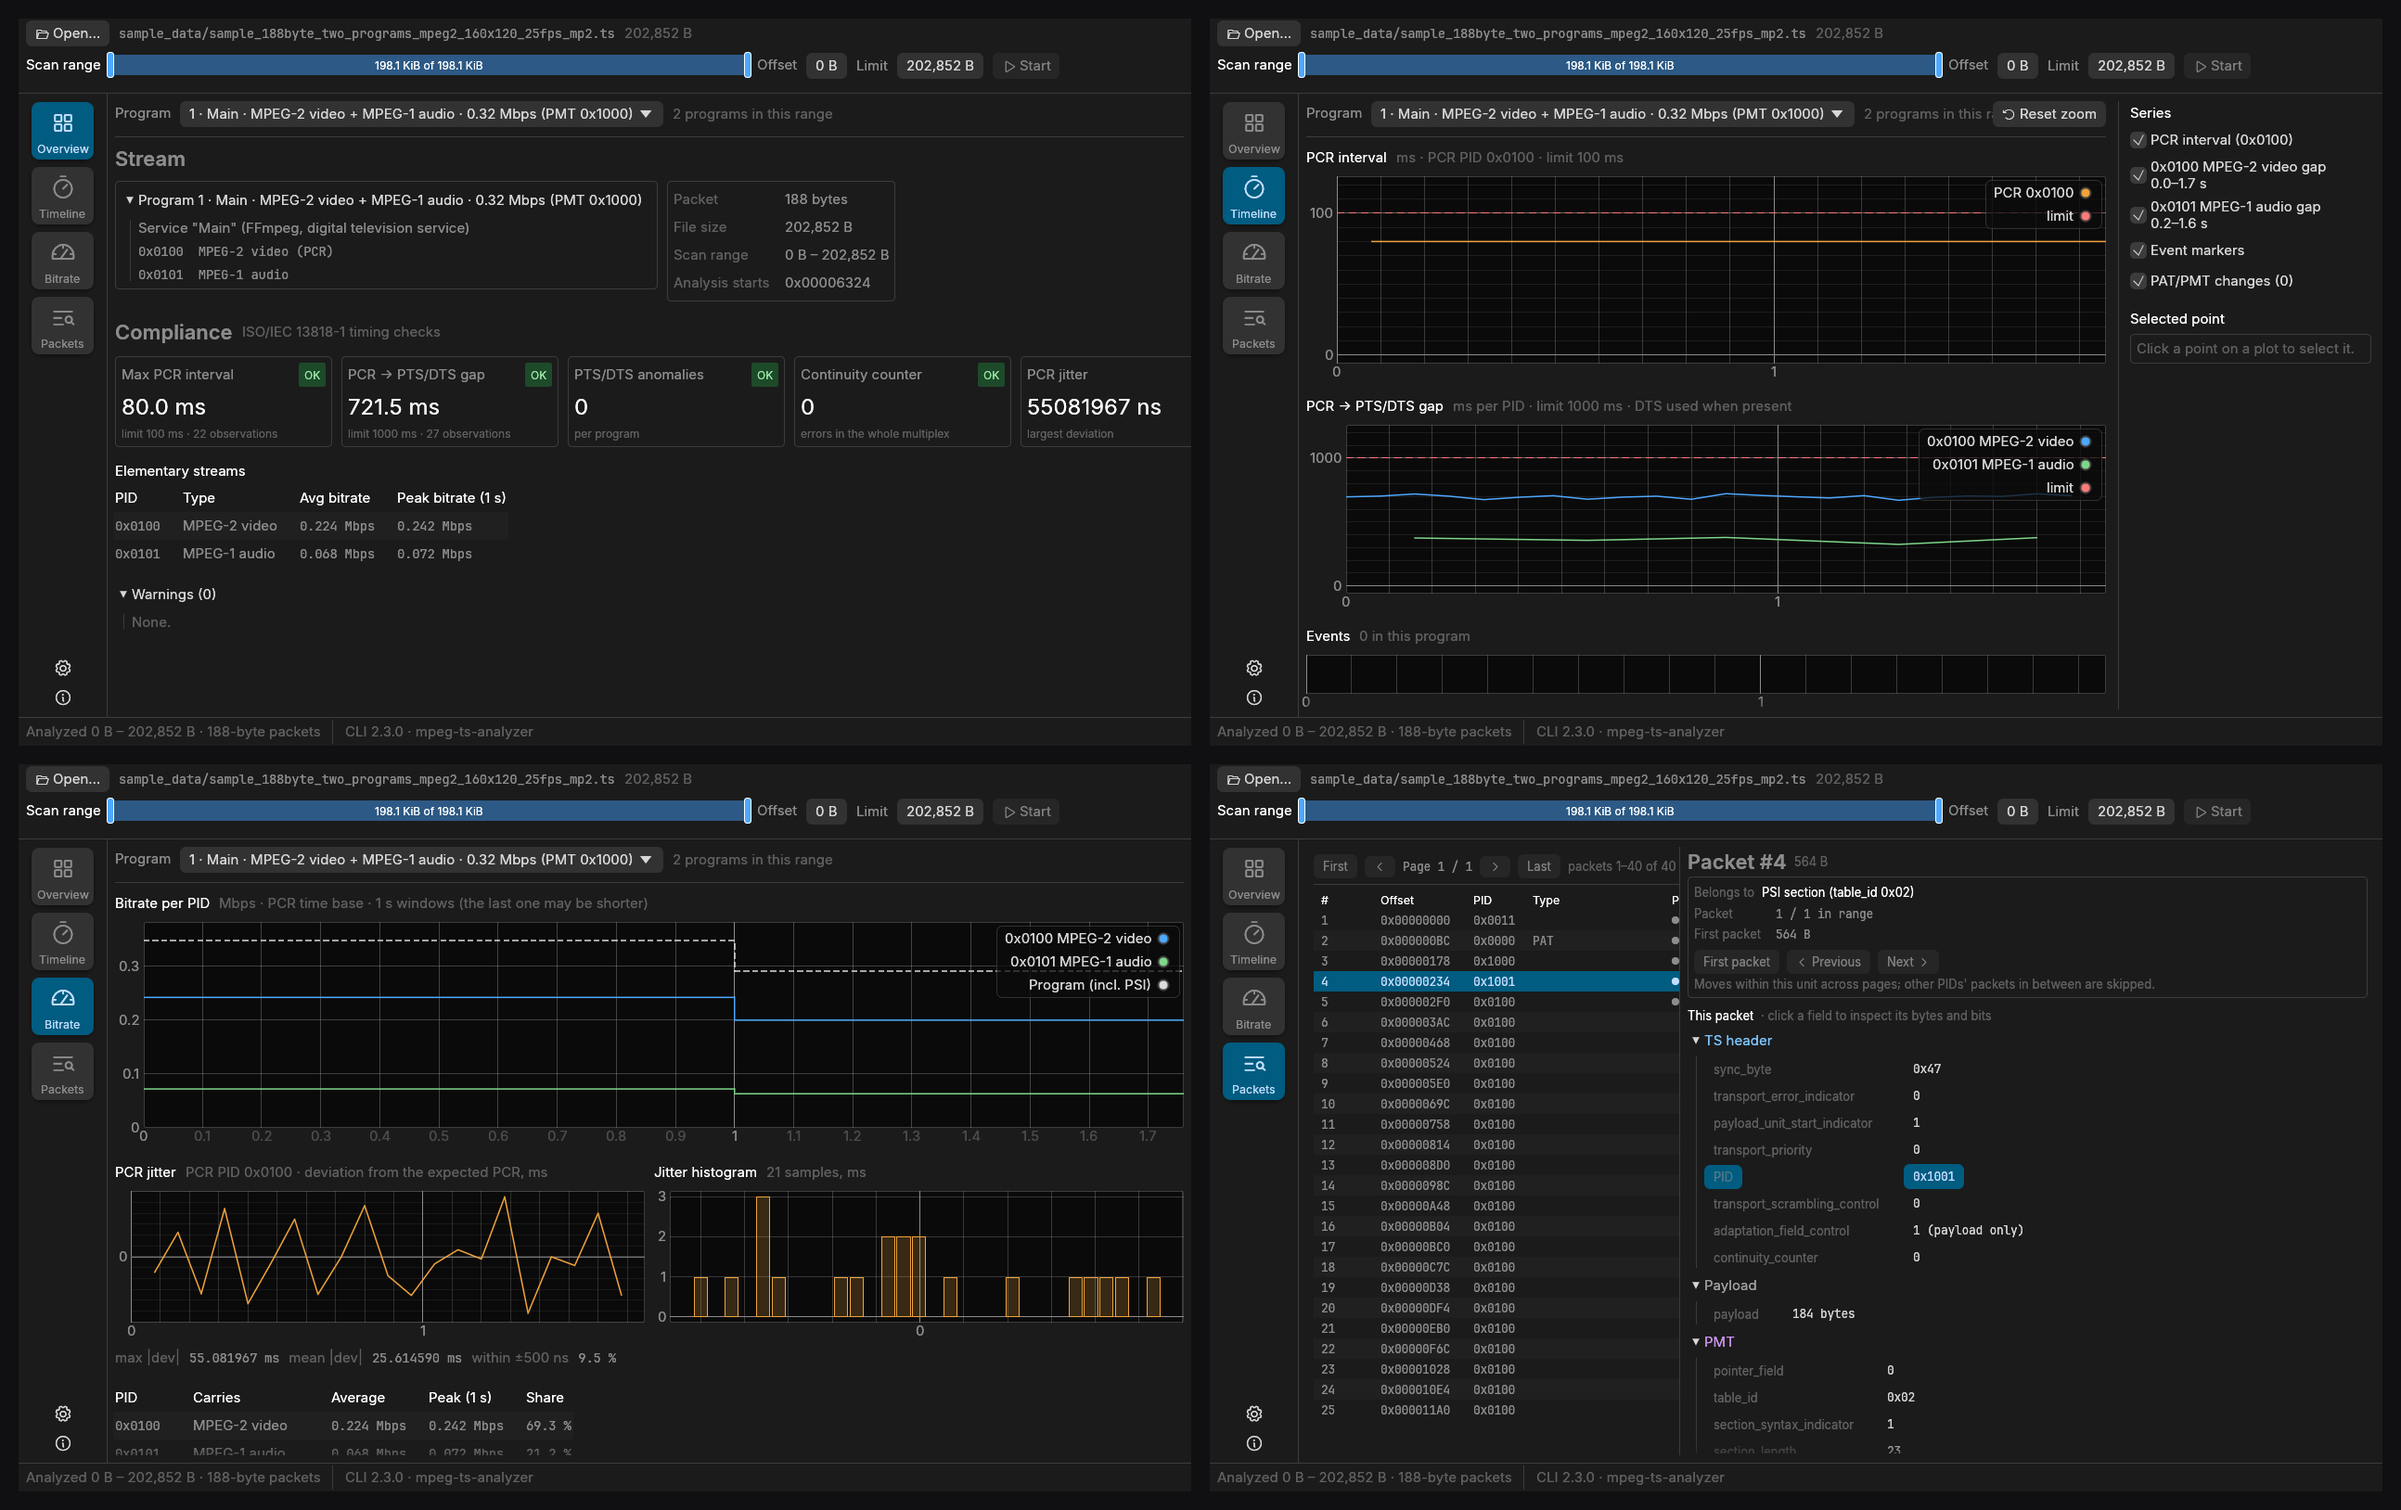
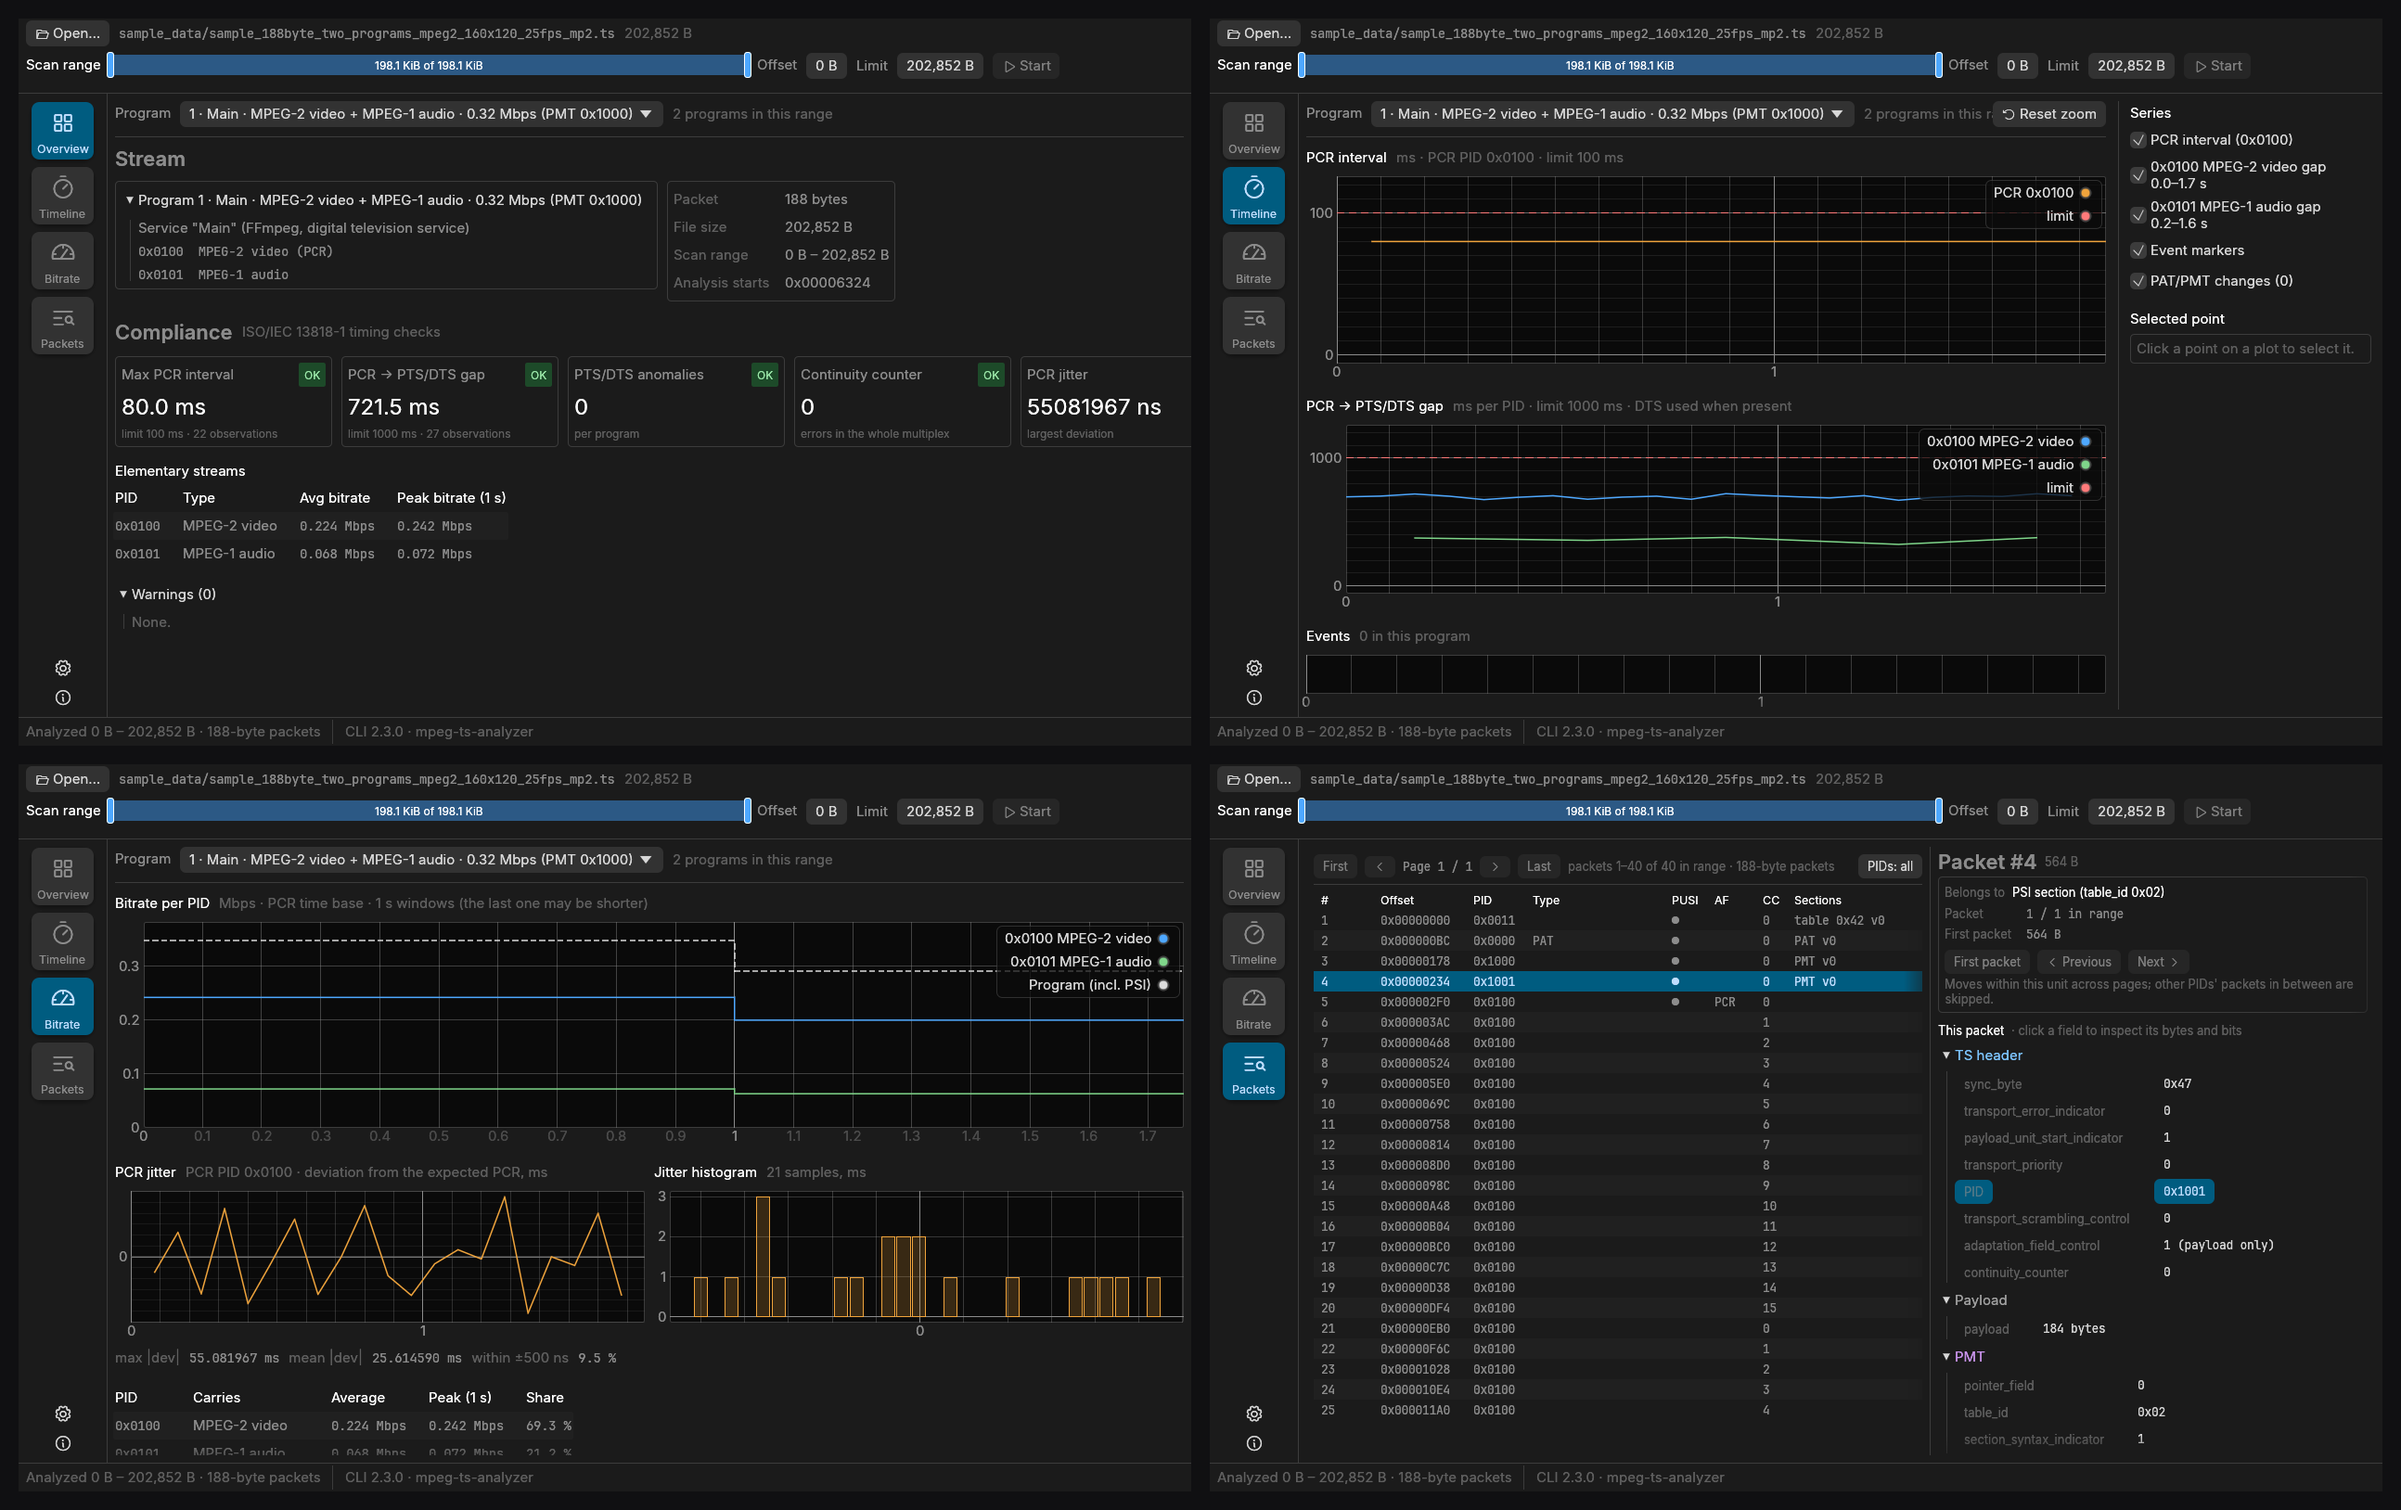
gui: keep the packet detail pane's width when the packet changes (#143)
A packet whose decoded rows were wider than the pane (a PMT, for example)
widened the pane over the packet list, and selecting another packet resized
it again. The pane now scrolls in both directions and keeps the width it was
dragged to. The README screenshot of the Packets tab is regenerated: the
list's PUSI, AF, CC and Sections columns are no longer covered.

diff --git a/gui/src/app/ui_tests.rs b/gui/src/app/ui_tests.rs
@@ -265,3 +265,35 @@ fn selecting_a_field_shows_its_bytes_and_bits() {
     click_field(&mut harness, "current_next_indicator");
     harness.get_by_label("Click a field to see its bits.");
 }
+
+/// The decoded PMT packet of program 2 (PID 0x1001) at offset 564, whose PID
+/// has set bits in both bytes it spans.
+pub(super) fn pmt_packet_detail() -> PacketDetail {
+    serde_json::from_str(include_str!(
+        "../../tests/fixtures/packet_detail_pmt_1001_188.json"
+    ))
+    .expect("packet fixture")
+}
+
+/// The left edge of the packet detail pane, where its "This packet" label starts.
+fn detail_pane_left(offset: u64, detail: PacketDetail) -> f64 {
+    let mut app = analyzed_app();
+    app.screen = Screen::Packets;
+    app.packet_pages = Some(PacketPages::loaded_for_test(packets_page(), offset, detail));
+    let harness = harness(app);
+    harness
+        .get_by_label("This packet")
+        .accesskit_node()
+        .bounding_box()
+        .expect("label bounds")
+        .x0
+}
+
+/// The PMT packet decodes into rows wider than the pane's default width. They
+/// scroll inside the pane instead of widening it over the packet list.
+#[test]
+fn packet_detail_pane_keeps_its_width_for_every_packet() {
+    let pat = detail_pane_left(188, pat_packet_detail());
+    let pmt = detail_pane_left(564, pmt_packet_detail());
+    assert_eq!(pat, pmt);
+}

diff --git a/gui/src/app/screenshots.rs b/gui/src/app/screenshots.rs
@@ -15,8 +15,7 @@ use egui_kittest::{Harness, SnapshotOptions};
 use image::{Rgba, RgbaImage, imageops};
 
 use super::App;
-use super::ui_tests::{analyzed_app, packets_page};
-use crate::report::PacketDetail;
+use super::ui_tests::{analyzed_app, packets_page, pmt_packet_detail};
 use crate::views::Screen;
 use crate::views::packet_pages::PacketPages;
 use crate::views::packet_pages::show_inspectors_for_test;
@@ -28,15 +27,6 @@ const TAB_SIZE: egui::Vec2 = egui::vec2(1280.0, 800.0);
 const GUTTER: u32 = 20;
 /// Logical size of the inspector close-up, rendered at two pixels per point.
 const INSPECTOR_SIZE: egui::Vec2 = egui::vec2(540.0, 460.0);
-
-/// The decoded PMT packet of program 2 (PID 0x1001) at offset 564, whose PID
-/// has set bits in both bytes it spans.
-fn pmt_packet_detail() -> PacketDetail {
-    serde_json::from_str(include_str!(
-        "../../tests/fixtures/packet_detail_pmt_1001_188.json"
-    ))
-    .expect("packet fixture")
-}
 
 fn render_tab(screen: Screen) -> RgbaImage {
     let mut app = analyzed_app();

diff --git a/gui/src/views/packet_pages.rs b/gui/src/views/packet_pages.rs
@@ -337,7 +337,12 @@ impl PacketPages {
             .resizable(true)
             .default_size(480.0)
             .show(ui, |ui| {
-                egui::ScrollArea::vertical().show(ui, |ui| self.detail(ui));
+                // Scrolls both ways: a packet wider than the pane scrolls
+                // inside it instead of widening the pane over the list, so the
+                // pane keeps the width it was dragged to.
+                egui::ScrollArea::both()
+                    .auto_shrink(false)
+                    .show(ui, |ui| self.detail(ui));
             });
         egui::CentralPanel::default().show(ui, |ui| {
             crate::theme::compact(ui);

diff --git a/docs/gui/design.md b/docs/gui/design.md
@@ -207,6 +207,9 @@ data is large, so the whole range is never held in memory.
   - The packet that completed a PAT or PMT change is highlighted, and Notes
     says what changed.
 - **Detail pane**:
+  - Keeps the width it was dragged to for every packet. A packet whose fields
+    are wider than the pane scrolls inside it, horizontally as well as
+    vertically, instead of widening the pane over the packet list.
   - "Belongs to": the PES/section, the packet's position in it, first packet,
     PTS/DTS, and First / Previous / Next to move within that unit only
     (switching pages as needed).
